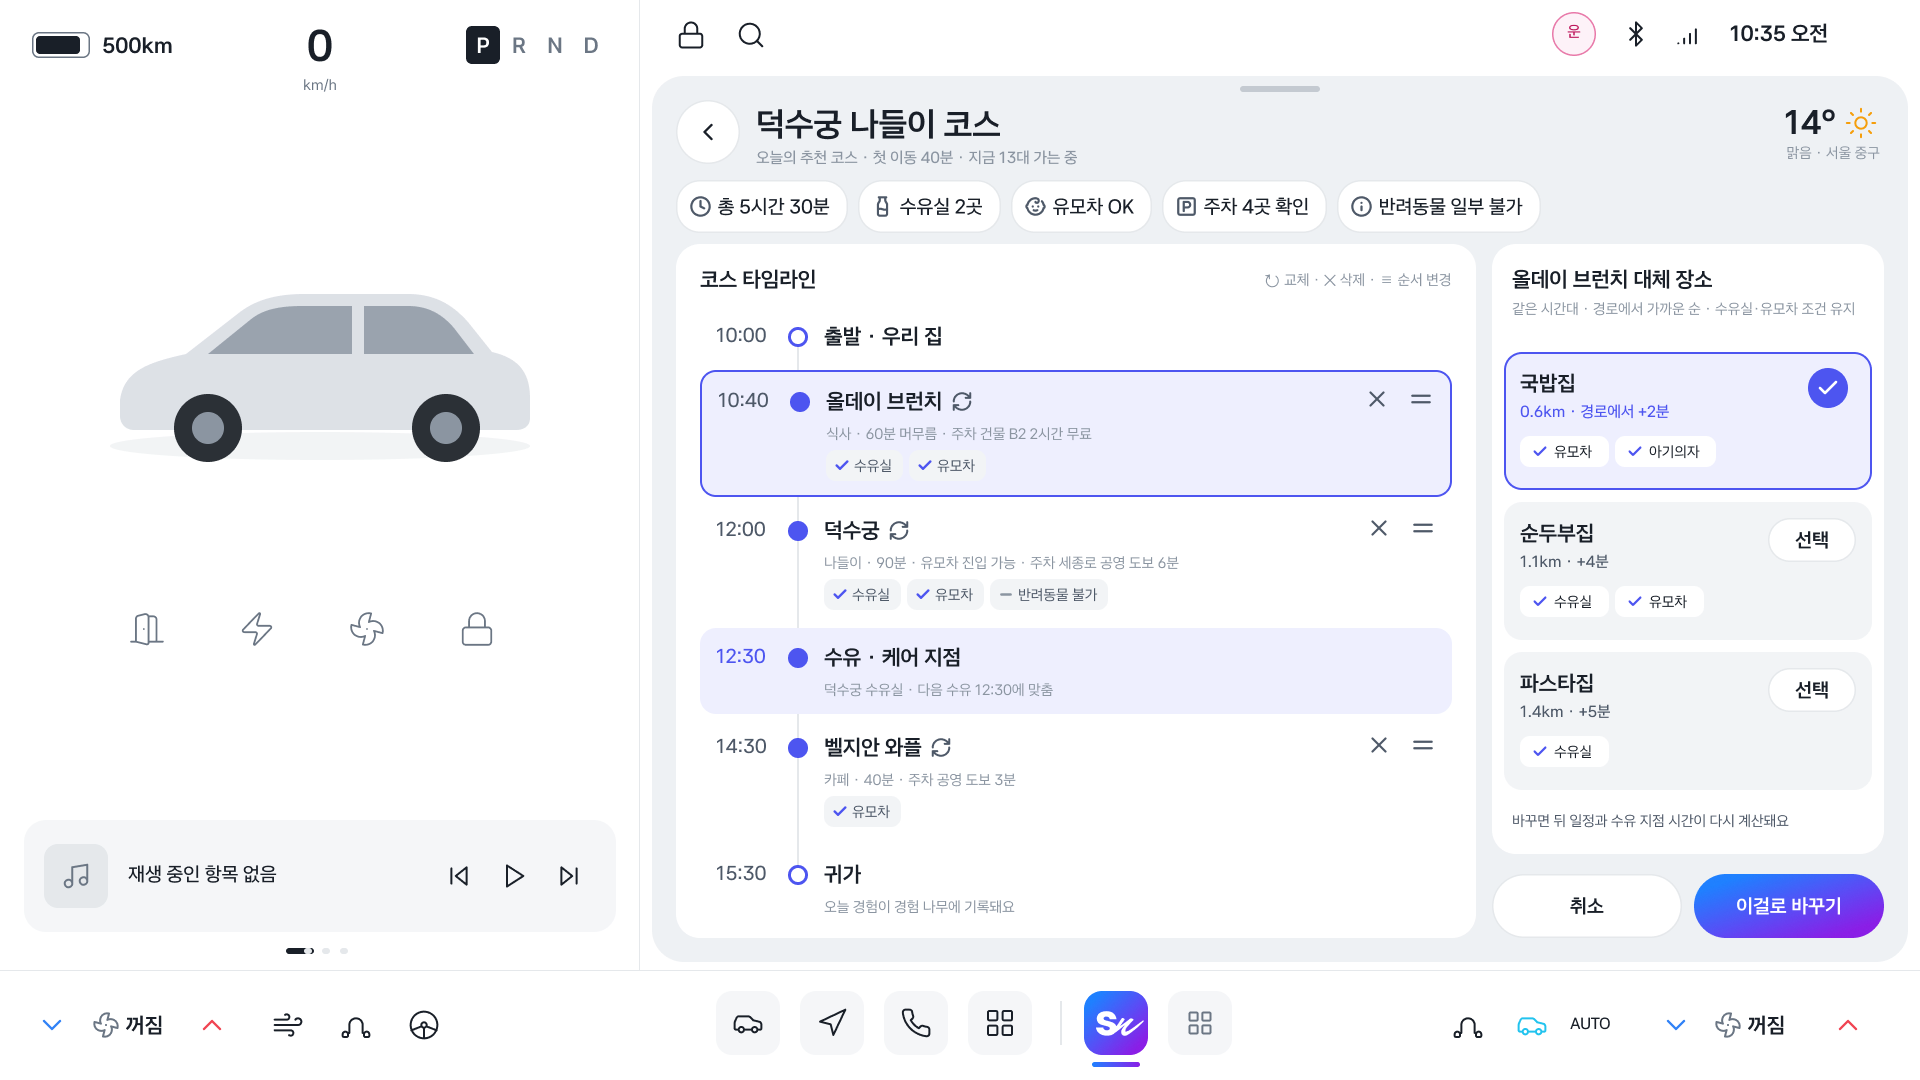
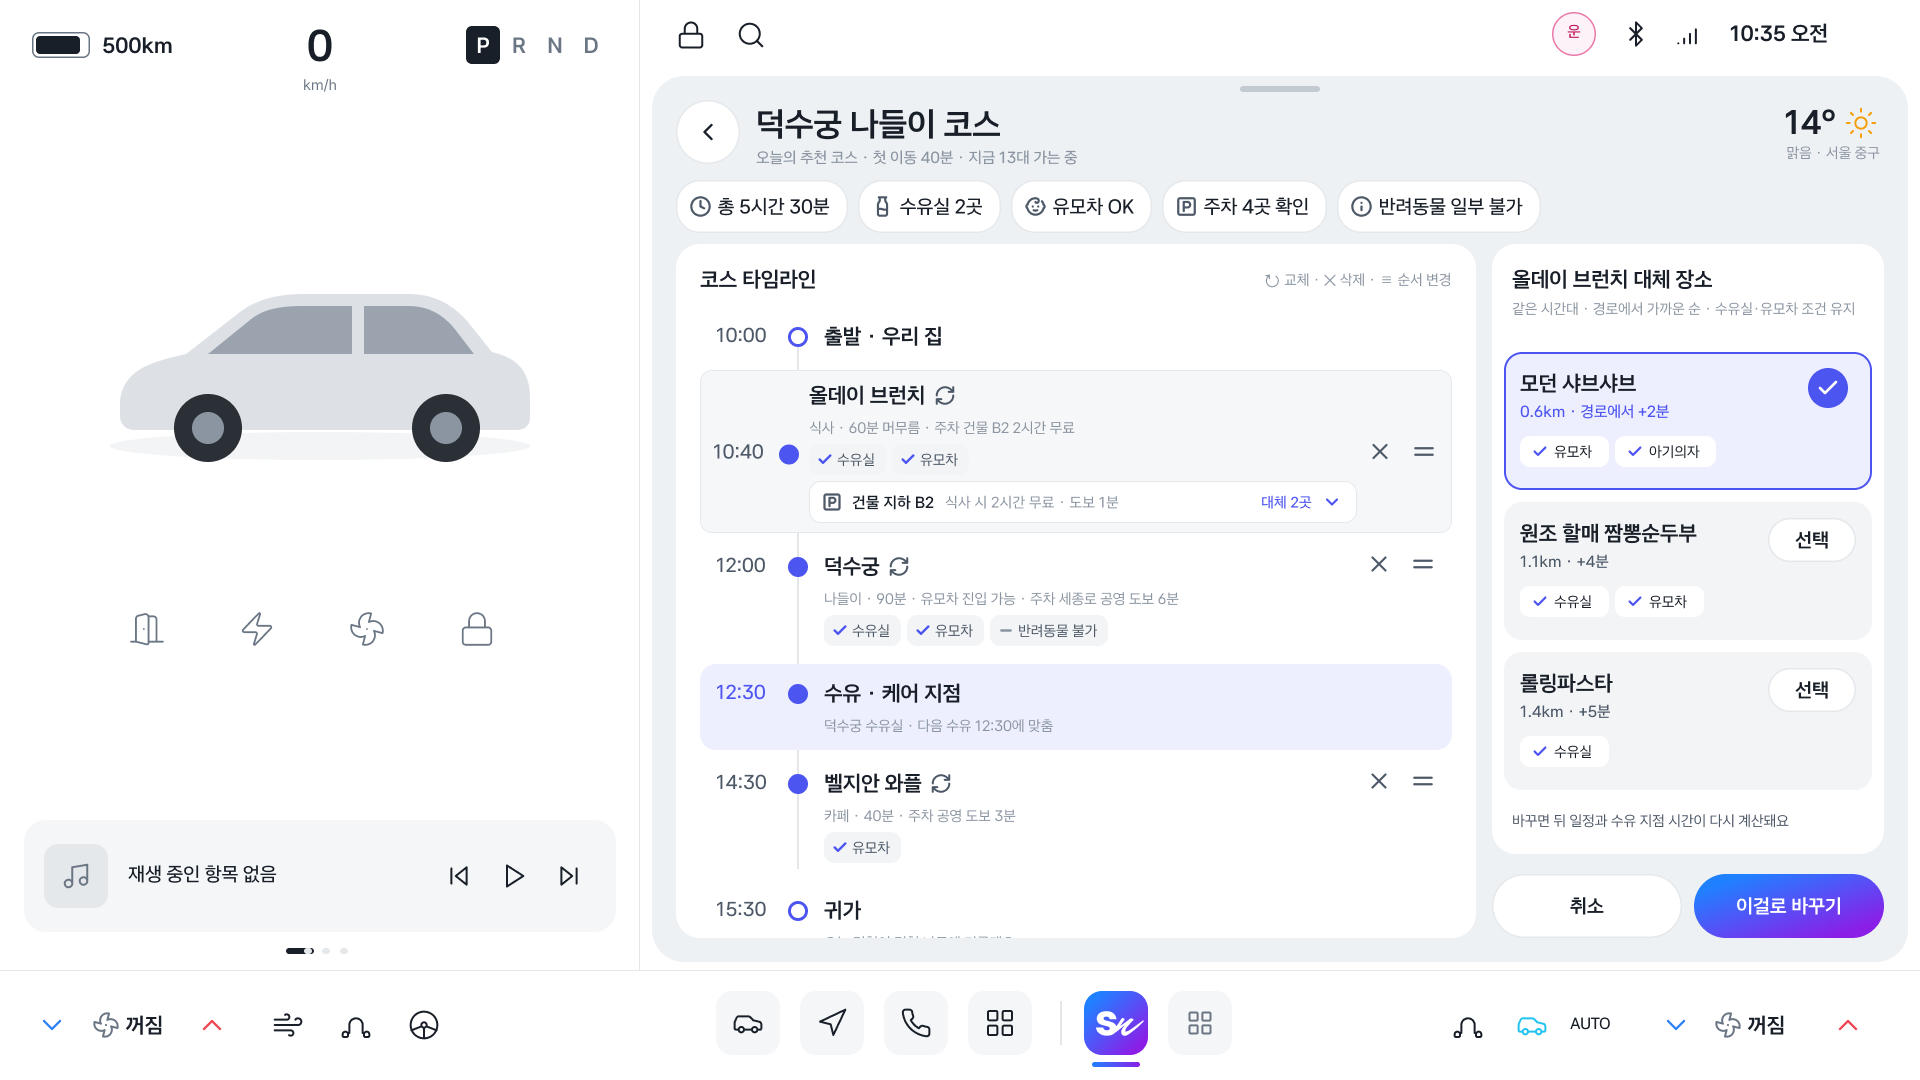
문서: 00:20 Figma 변경 화면 PNG와 화면별 정리(1112-changes)
Refs #157

diff --git a/docs/design/pleos-1110/watch/1112-changes.md b/docs/design/pleos-1110/watch/1112-changes.md
@@ -1,0 +1,80 @@
+# 2026-11-12 00:20 Figma 변경 — 화면별 정리
+
+- Figma 버전 `2420595967982113592` → `2420603694654753090` (2026-11-11T14:11:35Z). 원본 기록: [CHANGELOG.md](CHANGELOG.md) 2026-11-12 00:20 항목 (PR #237).
+- 근거: `snapshot.json` 노드 글(변경 전 스냅샷은 커밋 `d94d24f`)과 이번에 받은 PNG.
+- PNG: `images` 1회, 배율 1(1920×1080). 이 호출로 **11월 Tier 1 20/20회**가 되어, 이달에는 더 받을 수 없다.
+- 대상은 피드백 섹션 `369:11525` 안의 화면이다. 앱 코드와 대조하지는 않았다(화면별 반영은 각 화면 세션이 한다).
+
+## 받은 PNG (`docs/design/pleos-1110/assets/screens/`)
+
+| 파일 | 화면 | 노드 | 비고 |
+|---|---|---|---|
+| `H02-2-course-parking.png` | H02-2 코스 상세 > 주차 정보 펼침 | `428:16045` | 새 화면 |
+| `H03-course-arrived.png` | H03 코스 진행 — 경유지 도착 (앱 복귀) | `428:15475` | 피드백 섹션 새 판으로 교체(이전 PNG는 섹션 밖 `420:13227`) |
+| `H03-course-change-place.png` | H03 > 장소 바꾸기 선택시 | `420:14549` | 새 파일. 이전 `H03-course-arrived-overlay.png`는 이 노드의 옛 모습 |
+| `H02-1-replace-place.png` | H02-1 코스 상세 > 대체 장소 고르기 | `369:12330` | 교체 |
+| `C07-care-child-select.png` | C07 케어 — 아이 선택 펼침 | `369:13974` | 교체 |
+| `H01-2-home-radius.png` | H01 두 번째 안(반경 설정 드롭다운) | `369:19634` | 다시 받았지만 21:50 PNG와 바이트까지 같음 → 변경 없음 |
+
+같은 호출에서 함께 확인만 한 것: 섹션 안 H03-1 `420:14909`, H04 `420:15485`. 이 두 장은 기존 `H03-1-course-last-stop-overlay.png`, `H04-course-finished-overlay.png`와 똑같아서 바꾸지 않았다.
+
+## 화면별 바뀐 점
+
+### H02 홈 > 코스 상세 (`369:12230`) — 삭제
+- 피드백 섹션의 H02가 지워졌다. 같은 내용(총 5시간 30분, 수유실 2곳, 주차 4곳 확인, 12:30 수유 · 케어 지점, 15:30 귀가)은 H03 새 판의 배경과 H02-1에 그대로 남아 있다.
+- 코스 상세의 기준 화면은 이제 **H02-2**(주차 펼침)와 **H02-1**(대체 장소)이다. 이전 `H02-course-detail.png`는 옛 그림이다.
+
+### H02-2 코스 상세 > 주차 정보 펼침 (`428:16045`) — 새 화면
+- **요약 칩:** `총 4시간 40분` · `유모차 OK` · `주차 3곳 · 대체 5곳` · `반려동물 일부 불가`. H02와 달리 `수유실 2곳` 칩이 없고, 주차 칩이 `주차 4곳 확인`에서 `주차 3곳 · 대체 5곳`으로 바뀌었다.
+- **타임라인 머리글 오른쪽:** `↻ 교체 · ✕ 삭제 · ↕ 순서 변경 · 장소마다 기본 60분`.
+- **장소 행의 주차 줄(접힘):** 올데이 브런치 아래에 `P 건물 지하 B2 · 식사 시 2시간 무료 · 도보 1분 · 대체 2곳 ⌄`.
+- **덕수궁 행에서 주차 줄을 펼친 모습:**
+  - 맨 위: `세종로 공영주차장` [추천] / `공영 · 5분 400원 · 일 최대 6,000원 · 도보 6분 · 유모차 경사로 있음` / `접기 ⌃`.
+  - 그 아래: `다른 주차장 · 덕수궁까지 걷는 거리순`. 라디오 목록은 세종로 공영주차장(도보 6분 · 5분 400원, 여유), 정동 공영주차장(도보 4분 · 10분 500원, 보통), 서울시청 지하주차장(도보 9분 · 5분 300원, 혼잡)이다.
+  - 혼잡도 글(`여유`·`보통`·`혼잡`)은 노드에는 있지만 PNG에서는 보이지 않는다(숨김이거나 잘린 것으로 추정).
+  - 맨 아래 안내: `고른 주차장을 이 장소의 도착지로 길안내해요 · 혼잡도는 실시간 정보예요`.
+- **벨지안 와플 행(13:20):** `정동 공영주차장 · 10분 500원 · 도보 3분 · 대체 1곳`.
+- **시각과 머무는 시간:** 10:00 출발 → 10:40 올데이 브런치(60분) → 12:00 덕수궁(60분) → 13:20 벨지안 와플(60분) → 14:40 귀가. 장소마다 60분이 기본이다. 수유 · 케어 지점 행은 없다.
+- **오른쪽 패널:** `도착 10:40 · 3곳 · 장소마다 60분` / `장소에 도착하면 다음 일정을 물어볼게요`, `휴무·마감이면 대안 장소로 바꿔요`, [코스 시작] [경유지 편집] [코스 저장].
+- **귀가 아래 문구:** `코스가 끝나면 오늘 경험이 경험 나무에 기록돼요`. 앱 용어는 '젤리'인데 여기는 '경험 나무'로 남아 있다(디자인 잔여 문구로 추정).
+- 장소 행 오른쪽 아이콘이 ✕ · ↑ · ↓ (H02-1은 ✕ · ≡)이다.
+
+### H02-1 코스 상세 > 대체 장소 고르기 (`369:12330`)
+- **올데이 브런치 행:** 새 타임라인 행으로 다시 그려졌다. 문구는 그대로이고(`식사 · 60분 머무름 · 주차 건물 B2 2시간 무료`, 수유실·유모차), 행 안에 H02-2와 같은 **주차 줄(접힘)** `건물 지하 B2 · 식사 시 2시간 무료 · 도보 1분 · 대체 2곳 ⌄`이 추가됐다.
+- **오른쪽 대체 장소 패널은 그대로다:** 모던 샤브샤브 0.6km · +2분(선택됨), 원조 할매 짬뽕순두부 1.1km · +4분, 롤링파스타 1.4km · +5분 / `바꾸면 뒤 일정과 수유 지점 시간이 다시 계산돼요` / [취소] [이걸로 바꾸기].
+
+### H03 코스 진행 — 경유지 도착 (앱 복귀) (`428:15475`) — 피드백 섹션 새 판
+- 덮는 창 구성은 이전 H03와 같다.
+  - 태그: `1번째 장소 도착` · `내비 안내가 끝나 시터노트로 돌아왔어요`.
+  - 제목: `올데이 브런치에 도착했어요`. 보조 문구: `60분 머문 뒤 11:40에 출발하면 다음 일정 그대로예요`.
+  - 진행 막대: 출발 10:00 → 올데이 브런치 10:40(지금) → 덕수궁 12:00 → 벨지안 와플 13:20 → 귀가 14:40.
+  - `다음엔 어떻게 할까요?` 아래 카드 3개: [다음 장소로 · 덕수궁 · 12분 거리](강조) [장소 바꾸기 · 덕수궁 대신 다른 곳] [귀가 · 우리 집 · 35분 · 코스 끝].
+  - 음성 힌트: `"다음 장소 가자" "바꿔줘" "집에 가자"로 답해도 돼요`.
+- **변경 1:** 노드에는 `여기서 코스 끝내기`가 있지만 PNG에서는 보이지 않는다. 이 판에서는 숨김이거나 창 밖에 있는 것으로 추정한다(QC2 '글자 버튼' 결정과 함께 확인 필요).
+- **변경 2:** 배경 코스 상세가 H02 기준(총 5시간 30분, 12:30 수유 · 케어 지점, 14:30 벨지안 와플, 15:30 귀가)이다. 반면 진행 막대의 시각은 H02-2 기준(13:20 와플, 14:40 귀가)이다. 디자인 안에서 두 시각표가 섞여 있으니 앱은 실제 코스 시각을 쓴다.
+
+### H03 > 장소 바꾸기 선택시 (`420:14549`) — 내용 교체
+- 이전 판은 H03 덮는 창(도착 안내 + 다음 행동 3개)이었다. 이제는 **대체 장소 목록 창**이다.
+- **태그·제목:** 태그 `1번째 장소 도착` · `장소 변경안`, 제목 `덕수궁 대체 장소`, 보조 문구 `같은 시간대 · 경로에서 가까운 순 · 수유실·유모차 조건 유지`.
+- **목록(번호 원 + 이름 + 거리 + 조건 태그 + 오른쪽 길안내 버튼):**
+  1. `△△ 휴게소 화장실` · `0.8km · 2분 · 경로 위`(파란 글) · 유모차 · 수유실 · 아기의자
+  2. `OO몰 1F 가족 화장실` · `1.5km · 4분 · +2분` · 유모차 · 수유실 · 아기의자
+  3. `OO몰 1F 가족 화장실` · `1.5km · 4분 · +2분` · 유모차 · 수유실 · 아기의자 (2번과 같은 글)
+- **확인 필요:**
+  - '덕수궁 대체 장소'인데 후보가 화장실이다. C05-T1 화장실 목록을 틀로 복사한 자리표시 글로 보인다. 앱에는 서버 대체 후보(나들이 장소)를 넣는 것이 맞아 보이지만, 디자이너 확인 전까지는 추정이다.
+  - 태그가 `아기의자`이다. QP4 결정은 `유아의자`이다.
+  - 진행 막대, 다음 행동 카드, 음성 힌트, `여기서 코스 끝내기`는 이 창에서 빠졌다.
+
+### C07 케어 — 아이 선택 펼침 (정차 중) (`369:13974`)
+- 아이 이름 옆에 월령 단계 배지가 생겼다: 서아 14개월 **[영아기]**(노랑), 도윤 38개월 **[유아기]**(연두).
+- 나머지 문구는 그대로다: `3시간 간격 · 다음 수유 12:30 · 낮잠 2회` / `수유 없음 · 낮잠 하루 1회 · 멀미 조금` / `아이를 바꾸면 케어 화면 전체가 그 아이 기준으로 바뀌어요` 등.
+- **확인 필요:** 14개월을 '영아기'로 적었다. 발표 슬라이드 기준("12개월 이하 영아, 12개월 이상 유아")이나 ⑦ '유아기 12~24개월'과 맞지 않는다. 수유 표시 기준(QD1)과 함께 디자이너 확인이 필요하다.
+
+### 위치만 바뀐 것 (내용 그대로)
+- 온보딩 O01~O06, O04-1과 각 Note가 페이지 바로 아래에서 피드백 섹션 안으로 들어갔다.
+- 섹션 밖에 있던 옛 H03(`420:13227`)·H03-1·H04와 `⑥` 제목은 섹션에서 페이지 바로 아래로 나갔다. 섹션 안 H03-1 `420:14909`, H04 `420:15485`가 기준이다.
+- `⑦ 케어 · 유아기` 묶음 틀(`427:14731`)이 지워지고 라벨 `신규 : ⑦ …`, `신규 : ⑤ 온보딩 · 아이 정보 입력 (정차 중)`, `신규 : H03 …`이 생겼다. C05-T1은 그대로이다.
+- 피드백 섹션 높이: 11300 → 12304.
+
+## 받지 못한 화면
+- 없음. 요청한 화면은 모두 받았다.

diff --git a/docs/agent-tasks/157-figma-watch.md b/docs/agent-tasks/157-figma-watch.md
@@ -56,6 +56,8 @@ Figma 파일 `xeLwkzhH8tnsazQdOriGU2` → 페이지 `종합 정리`(`130:5`) 전
 
 - 2026-11-12 00:20: 변경 감지(버전 `2420603694654753090`, 추가 121·삭제 99·변경 166). 피드백 섹션: H02(`369:12230`) 삭제, 새 화면 H02-2 주차 정보 펼침(`428:16045`)·H03 경유지 도착 새 판(`428:15475`)·H03 장소 바꾸기(`420:14549`, 화장실 목록), H02-1 타임라인 행·주차 드롭다운 추가, C07에 영아기·유아기 표시 추가. 온보딩 O01~O06이 피드백 섹션 안으로, 옛 H03·H03-1·H04가 섹션 밖으로 이동. ⑦ 묶음 틀은 지워지고 C05-T1은 그대로. Tier 1 19/20.
 
+- 2026-11-12 01:00: 통제 세션 요청(사용자 결정)으로 00:20 변경 화면 PNG를 `images` 1회로 받음(H02-2·H03 새 판·H03 장소 바꾸기·H02-1·C07·H01-2, H03-1·H04는 확인만). 화면별 정리 `watch/1112-changes.md`. **11월 Tier 1 20/20 — 이달 남은 버전 변경은 `tier1_cap`으로 멈춘다.**
+
 ## 확인하지 못한 것
 - 실제 Figma 응답으로 돌려 보지 못했다(토큰 없음). 응답 모양은 공식 문서 기준으로 짰고 테스트는 가짜 응답이다. 첫 `baseline` 때 노드 수·화면 코드 매칭을 확인해야 한다.
 - 사용자 좌석 종류와 Education 플랜의 실제 REST 한도.
